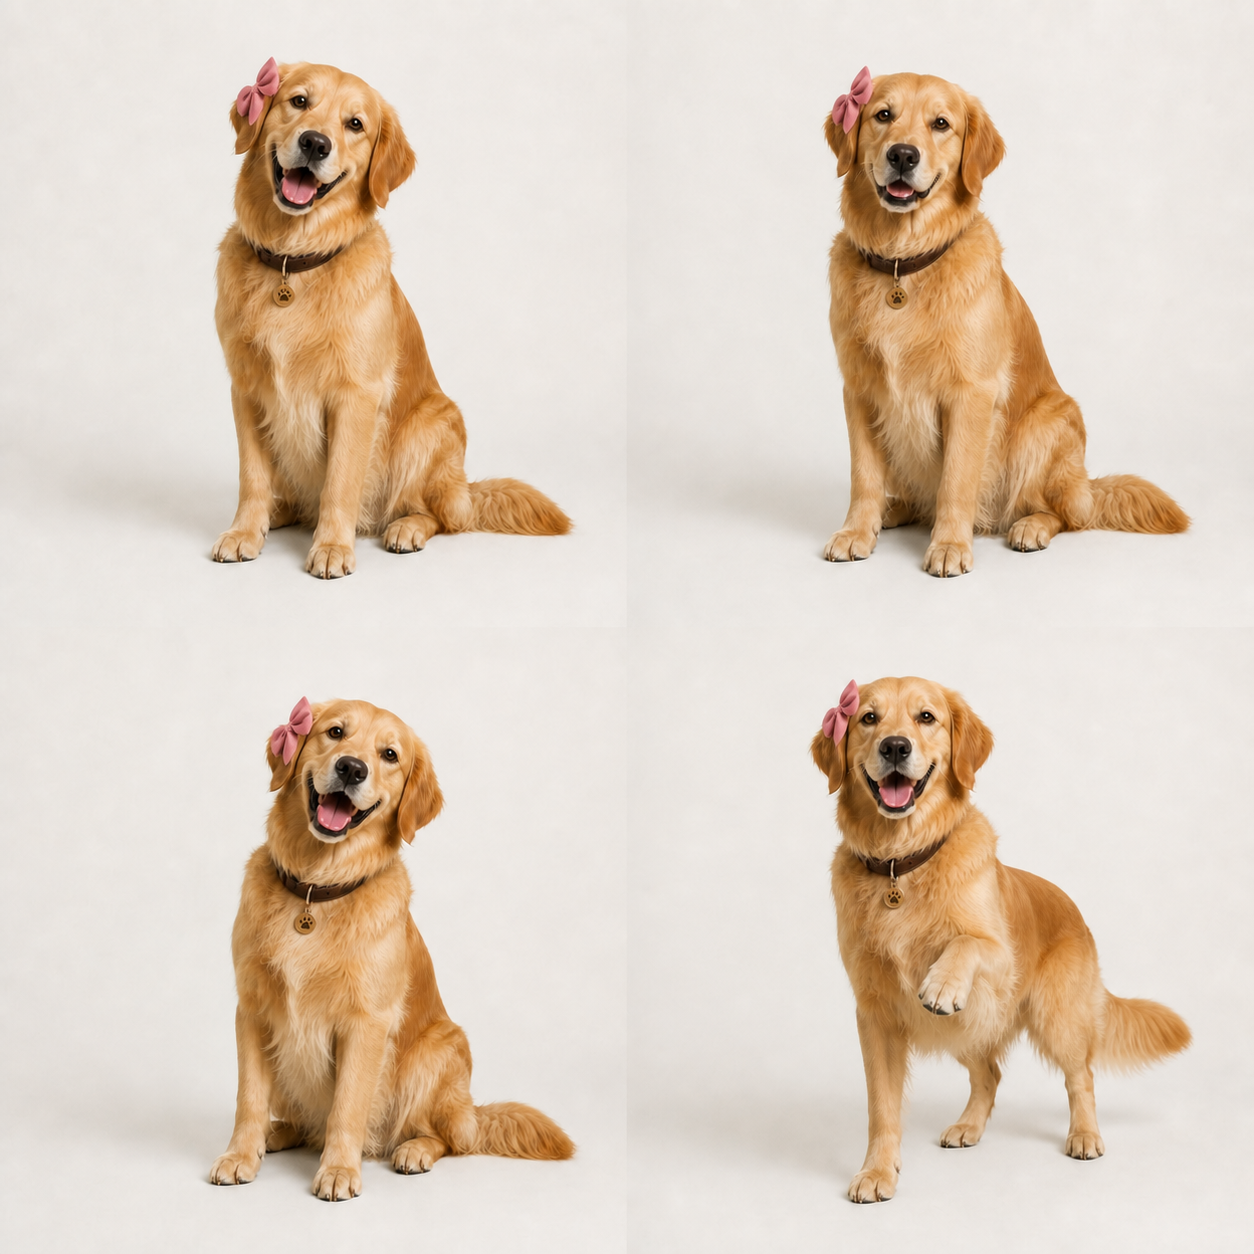
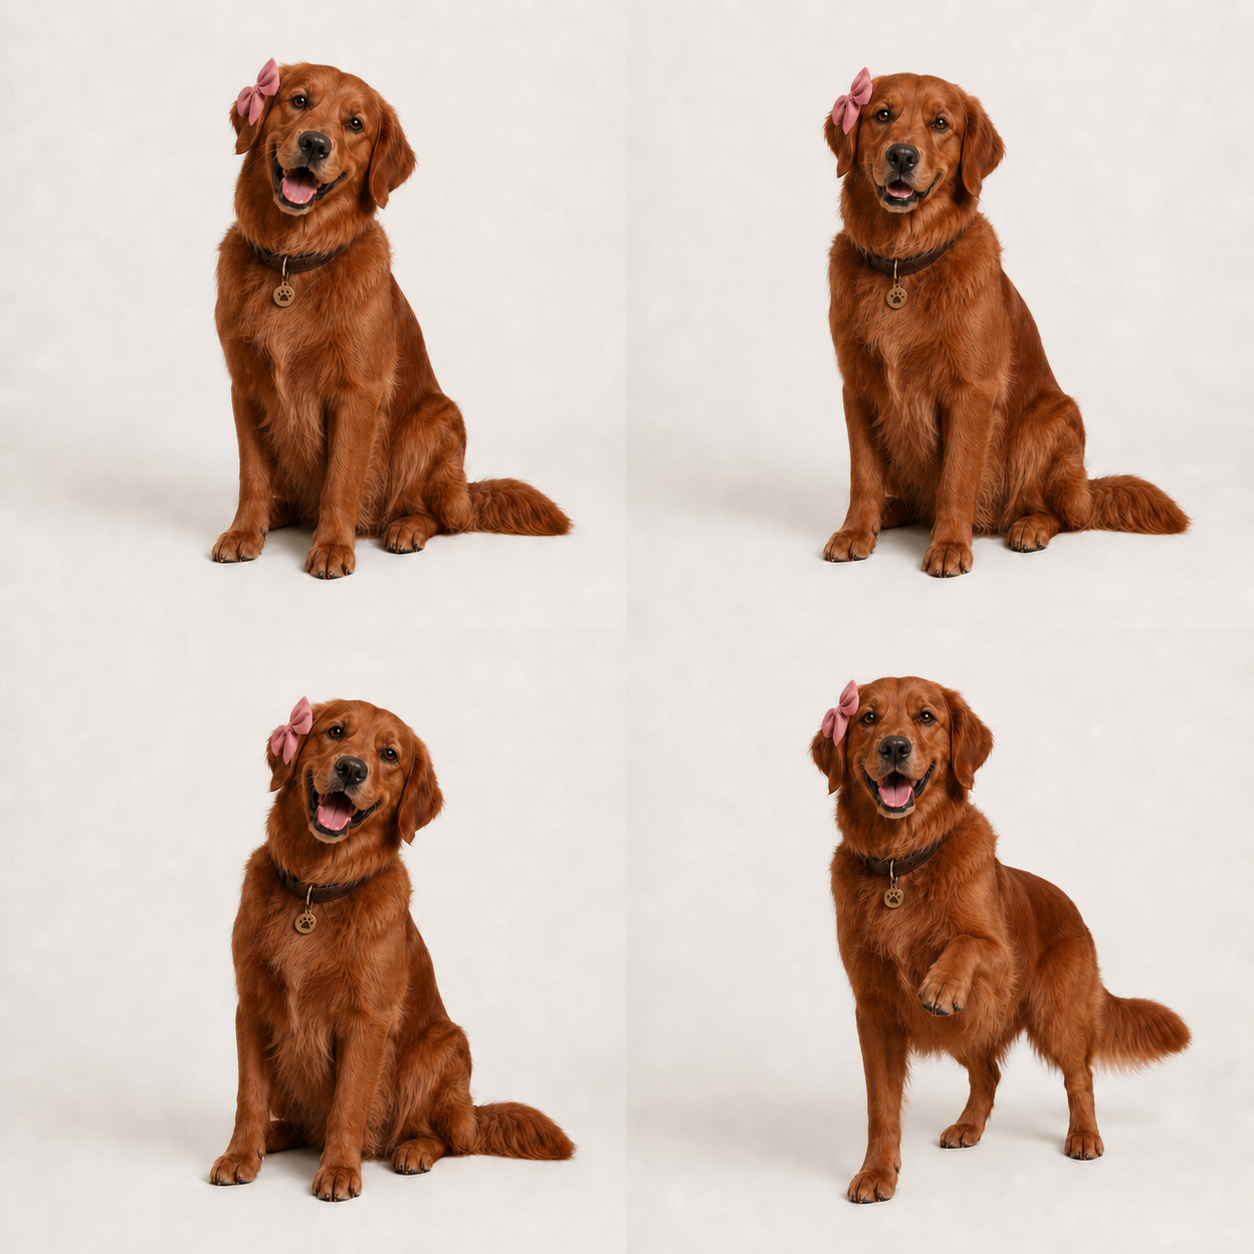
Corrige pelagem ruiva do Golden

diff --git a/frontend/src/data/demo.ts b/frontend/src/data/demo.ts
@@ -61,7 +61,7 @@ export const coatOptions = [
   { id: 'golden', label: 'Dourado natural', color: '#D8AC72' },
   { id: 'honey', label: 'Mel suave', color: '#C28B53' },
   { id: 'caramel', label: 'Caramelo', color: '#9A6648' },
-  { id: 'red', label: 'Ruivo acobreado', color: '#7E4C37' },
+  { id: 'red', label: 'Ruivo acobreado', color: '#A85F32' },
 ] as const
 
 export const objectives = [
